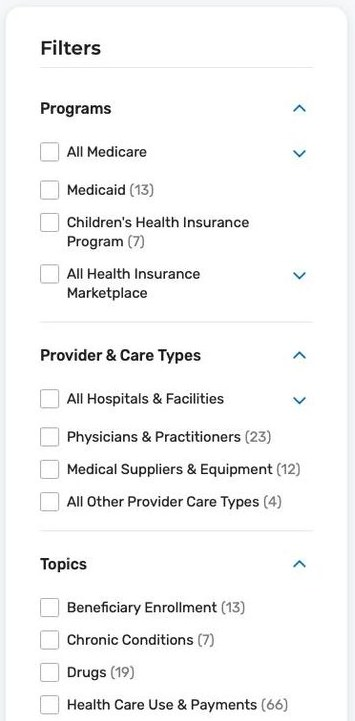
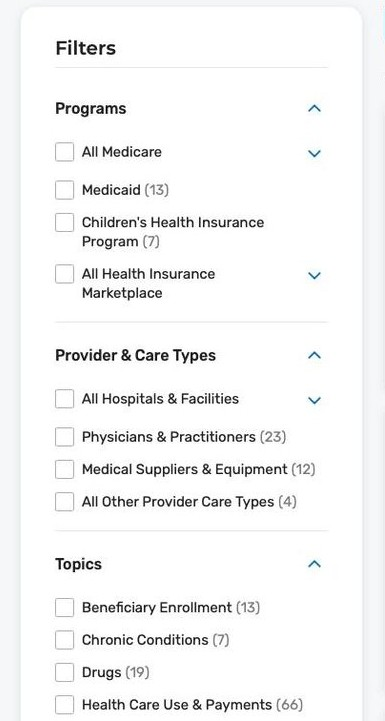
Data.CMS: screenshots as real components, no added shadows, tighter crops
Claude-Session: https://claude.ai/code/session_01QLLeVvuhDZtg3WSE3y3t5H

diff --git a/PORTFOLIO/datacmsgov.html b/PORTFOLIO/datacmsgov.html
@@ -20,7 +20,7 @@
 <img src="assets/datacms-search-drawer.jpg" width="531" height="888" class="full shot drawer" alt="Previous search page with the filter drawer open over dimmed results" loading="lazy"><p class="cap">The previous filter design: filters hidden in a drawer that dims the results.</p></section>
 <section class="col s"><h2>The Approach</h2><p>I led the design with a focus on realism, so feedback reflected how the real site would feel.</p><ul class="cl"><li>Used AI to build front end prototypes that replicate the real Data.CMS.gov site.</li><li>Prototyped in Figma Make and tested with users before development began.</li><li>Updated the prototype between research sessions based on feedback.</li><li>Handed the validated design to development and published it on October 21.</li></ul></section>
 <section class="col s"><h2>The Solution</h2><p>Filters now sit beside the results and are visible on arrival. Programs, provider and care types, topics, and geography are all exposed, with result counts next to each option.</p>
-<figure class="gal"><img src="assets/datacms-search-hero.jpg" width="1400" height="360" class="full shot" alt="Redesigned search page header with a prominent search field" loading="lazy"><figcaption class="cap">A single search field leads the page.</figcaption><div class="gal2"><div><img src="assets/datacms-search-filters.jpg" width="355" height="721" class="full shot" alt="Filters column with programs, provider and care types, and topics" loading="lazy"><p class="cap">Filters stay visible, with result counts beside every option.</p></div><div><img src="assets/datacms-search-results.jpg" width="630" height="721" class="full shot" alt="Search results showing dataset cards with key facts" loading="lazy"><p class="cap">Results show rows, columns, and data freshness at a glance.</p></div></div></figure></section>
+<figure class="gal"><img src="assets/datacms-search-hero.jpg" width="1396" height="233" class="full shot hero-shot" alt="Redesigned search page header with a prominent search field" loading="lazy"><figcaption class="cap">A single search field leads the page.</figcaption><div class="gal2 stage"><div><img src="assets/datacms-search-filters.jpg" width="385" height="721" class="full shot comp fade" alt="Filters column with programs, provider and care types, and topics" loading="lazy"><p class="cap">Filters stay visible, with result counts beside every option.</p></div><div><img src="assets/datacms-search-results.jpg" width="640" height="710" class="full shot comp" alt="Search results showing dataset cards with key facts" loading="lazy"><p class="cap">Results show rows, columns, and data freshness at a glance.</p></div></div></figure></section>
 <section class="col s"><h2>The Impact</h2><ul class="cl"><li>Before: about 50 to 200 filtered search page views per day.</li><li>After: several hundred per day, with peaks near 900, up to about 4.5x the old high.</li></ul></section>
 </div>
 <div role="tabpanel" id="p-new" aria-labelledby="t-new" hidden>

diff --git a/PORTFOLIO/style.css b/PORTFOLIO/style.css
@@ -341,3 +341,9 @@ h3.plat .live{display:inline-block;vertical-align:middle;margin-left:10px;paddin
 .chk b{display:block;font:700 18px/1.2 "Source Sans 3";color:var(--ink)}
 .chk li:last-child{background:var(--ink);color:#cfcfd4}.chk li:last-child b{color:#fff}
 @media(max-width:700px){.glance dl{grid-template-columns:1fr 1fr}.tabs{margin-top:48px}.glance{margin-top:48px}}
+/* screenshots are real components: no added frames or shadows */
+.shot{box-shadow:none;border-radius:0}
+.shot.hero-shot,.shot.drawer{border-radius:var(--r-md)}
+.gal2{grid-template-columns:385fr 640fr;gap:16px}
+.comp{border-radius:0;box-shadow:none}
+.comp.fade{-webkit-mask-image:linear-gradient(#000 82%,transparent);mask-image:linear-gradient(#000 82%,transparent)}
